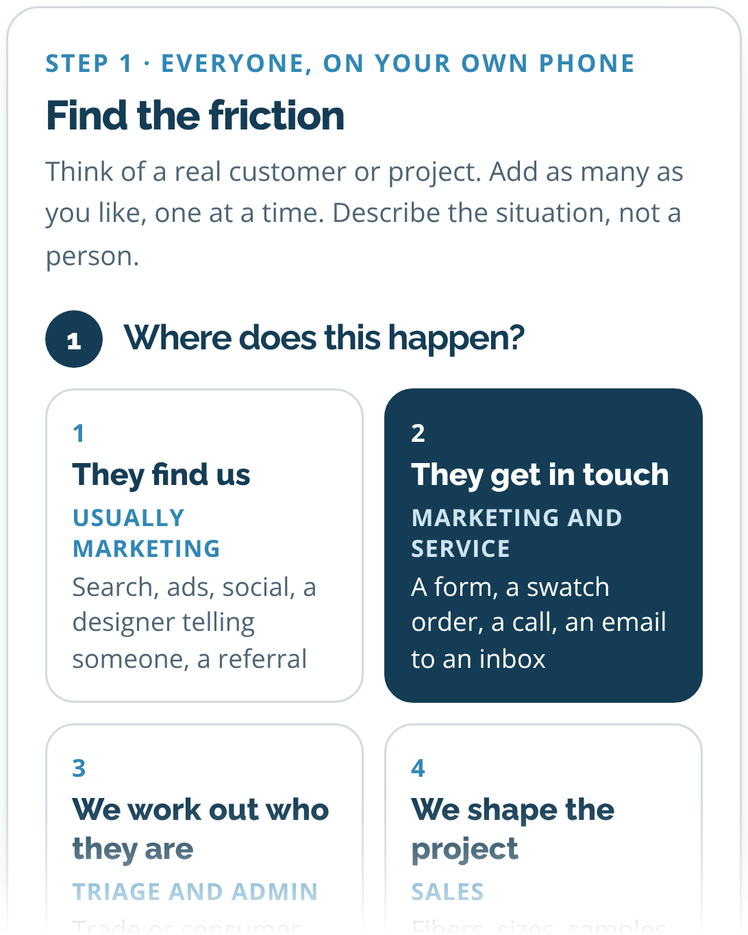
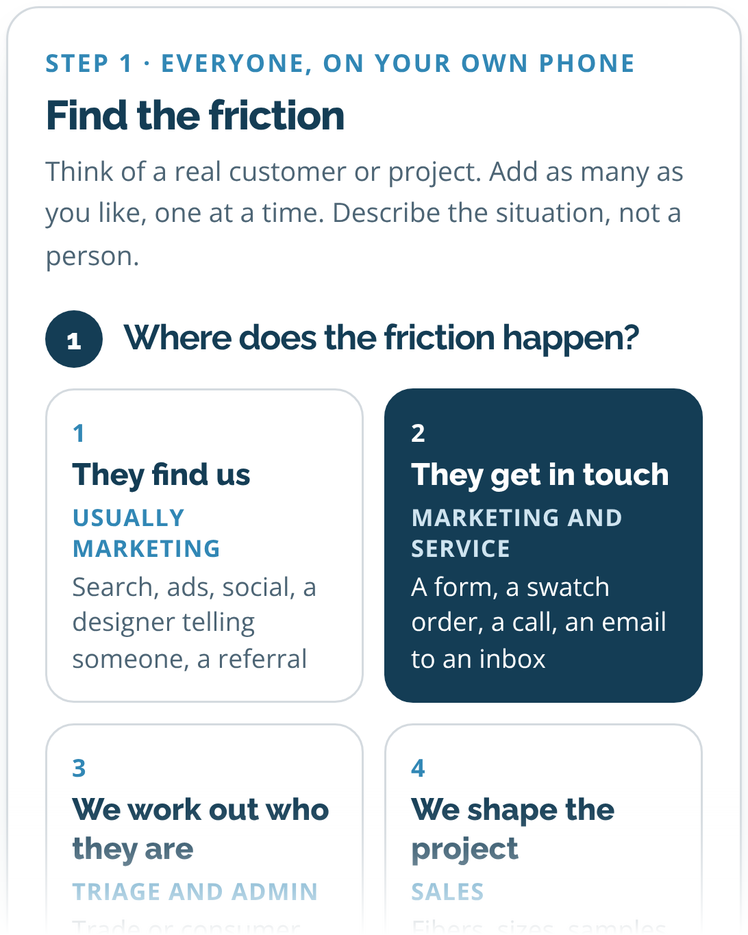
Friction step: ask 'Where does the friction happen?'
Claude-Session: https://claude.ai/code/session_01W4GRPeFtAFHhU1Sm9iBUHt

Changed region(s): [[0.4612, 0.3412, 0.861, 0.4032]]

diff --git a/curran/breakout.html b/curran/breakout.html
@@ -68,7 +68,7 @@
       <div class="eyebrow">Step 1 · Everyone, on your own phone</div>
       <h2>Find the friction</h2>
       <p class="small" style="margin-top:4px">Think of a real customer or project. Add as many as you like, one at a time. Describe the situation, not a person.</p>
-      <div class="step" style="margin-top:16px"><span class="n">1</span><h3>Where does this happen?</h3></div>
+      <div class="step" style="margin-top:16px"><span class="n">1</span><h3>Where does the friction happen?</h3></div>
       <div class="tiles t4" id="stage"></div>
       <div class="step" style="margin-top:18px"><span class="n">2</span><h3>What gets lost?</h3></div>
       <div class="chips" id="lost"><button class="chip" data-v="info">Information</button><button class="chip" data-v="time">Time</button><button class="chip" data-v="momentum">Momentum</button><button class="chip" data-v="opportunity">Opportunity</button></div>

diff --git a/curran/friction.html b/curran/friction.html
@@ -34,7 +34,7 @@
   <form id="f" class="card" data-sticky-submit novalidate>
     <div class="prog" aria-hidden="true"><i id="p1"></i><i id="p2"></i><i id="p3"></i><i id="p4"></i></div>
 
-    <div class="step" style="margin-top:12px"><span class="n">1</span><h2 style="font-size:18px">Where does this happen?</h2></div>
+    <div class="step" style="margin-top:12px"><span class="n">1</span><h2 style="font-size:18px">Where does the friction happen?</h2></div>
     <div class="tiles t4" id="stage"></div>
 
     <div class="step" style="margin-top:20px"><span class="n">2</span><h2 style="font-size:18px">What gets lost?</h2></div>
